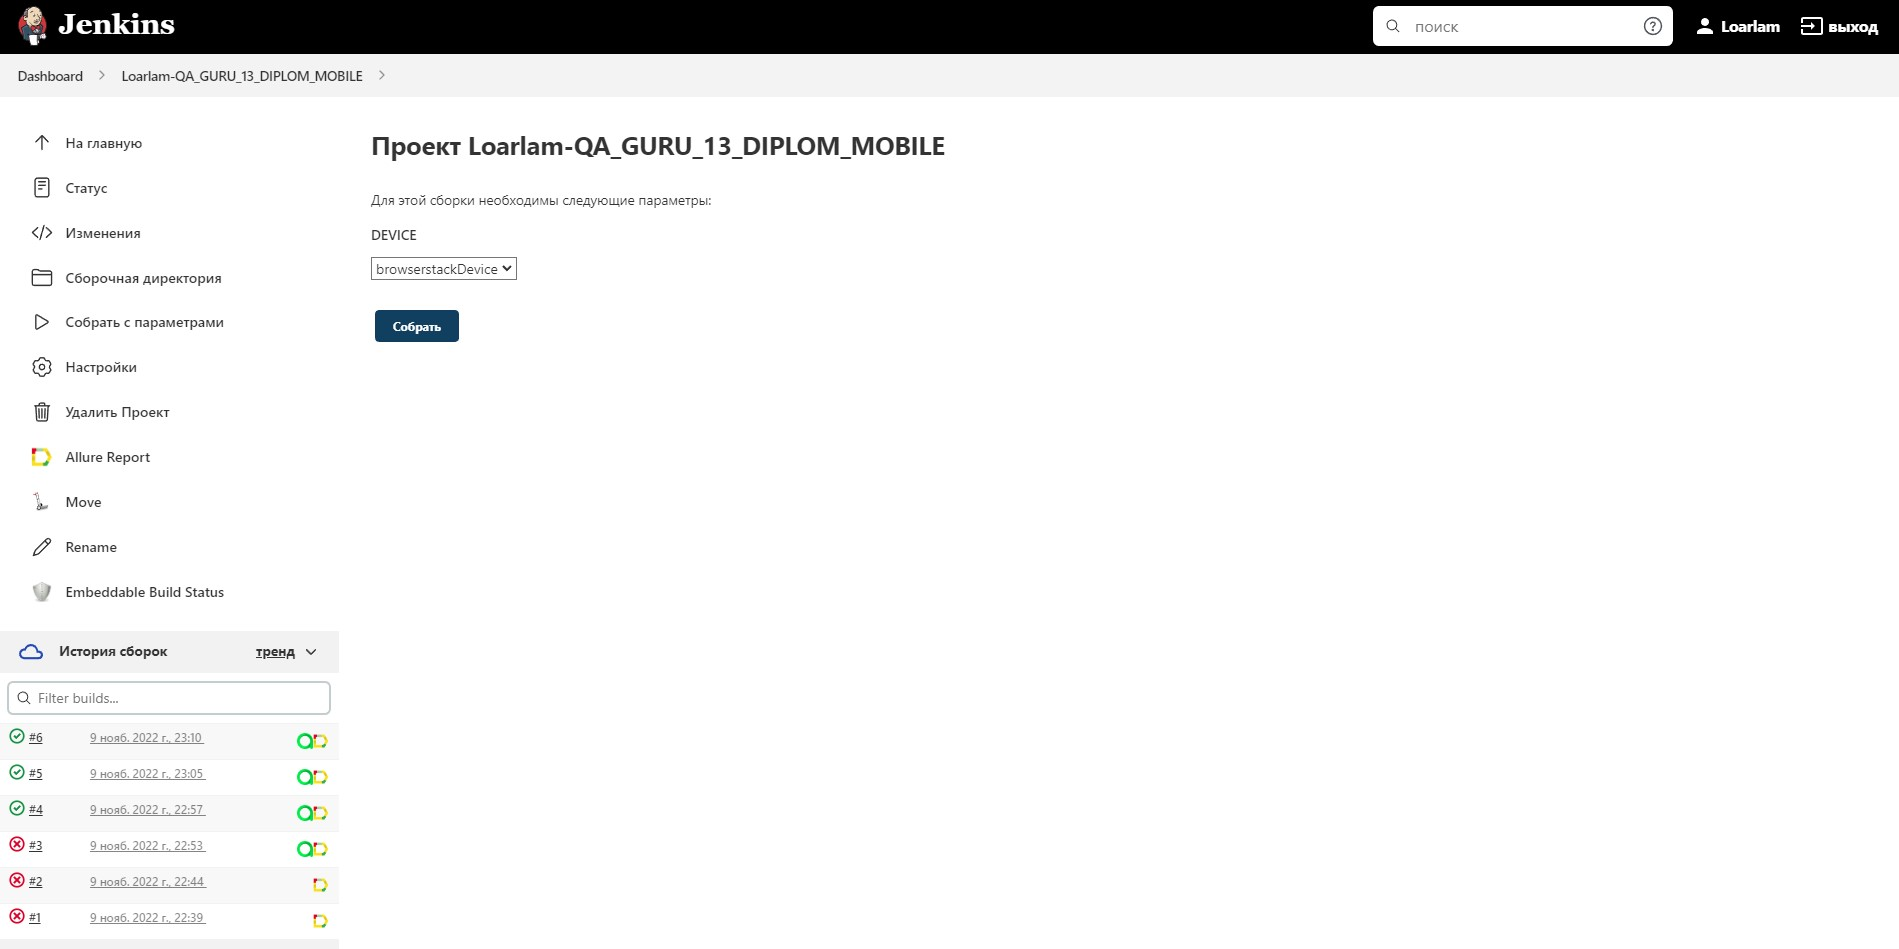
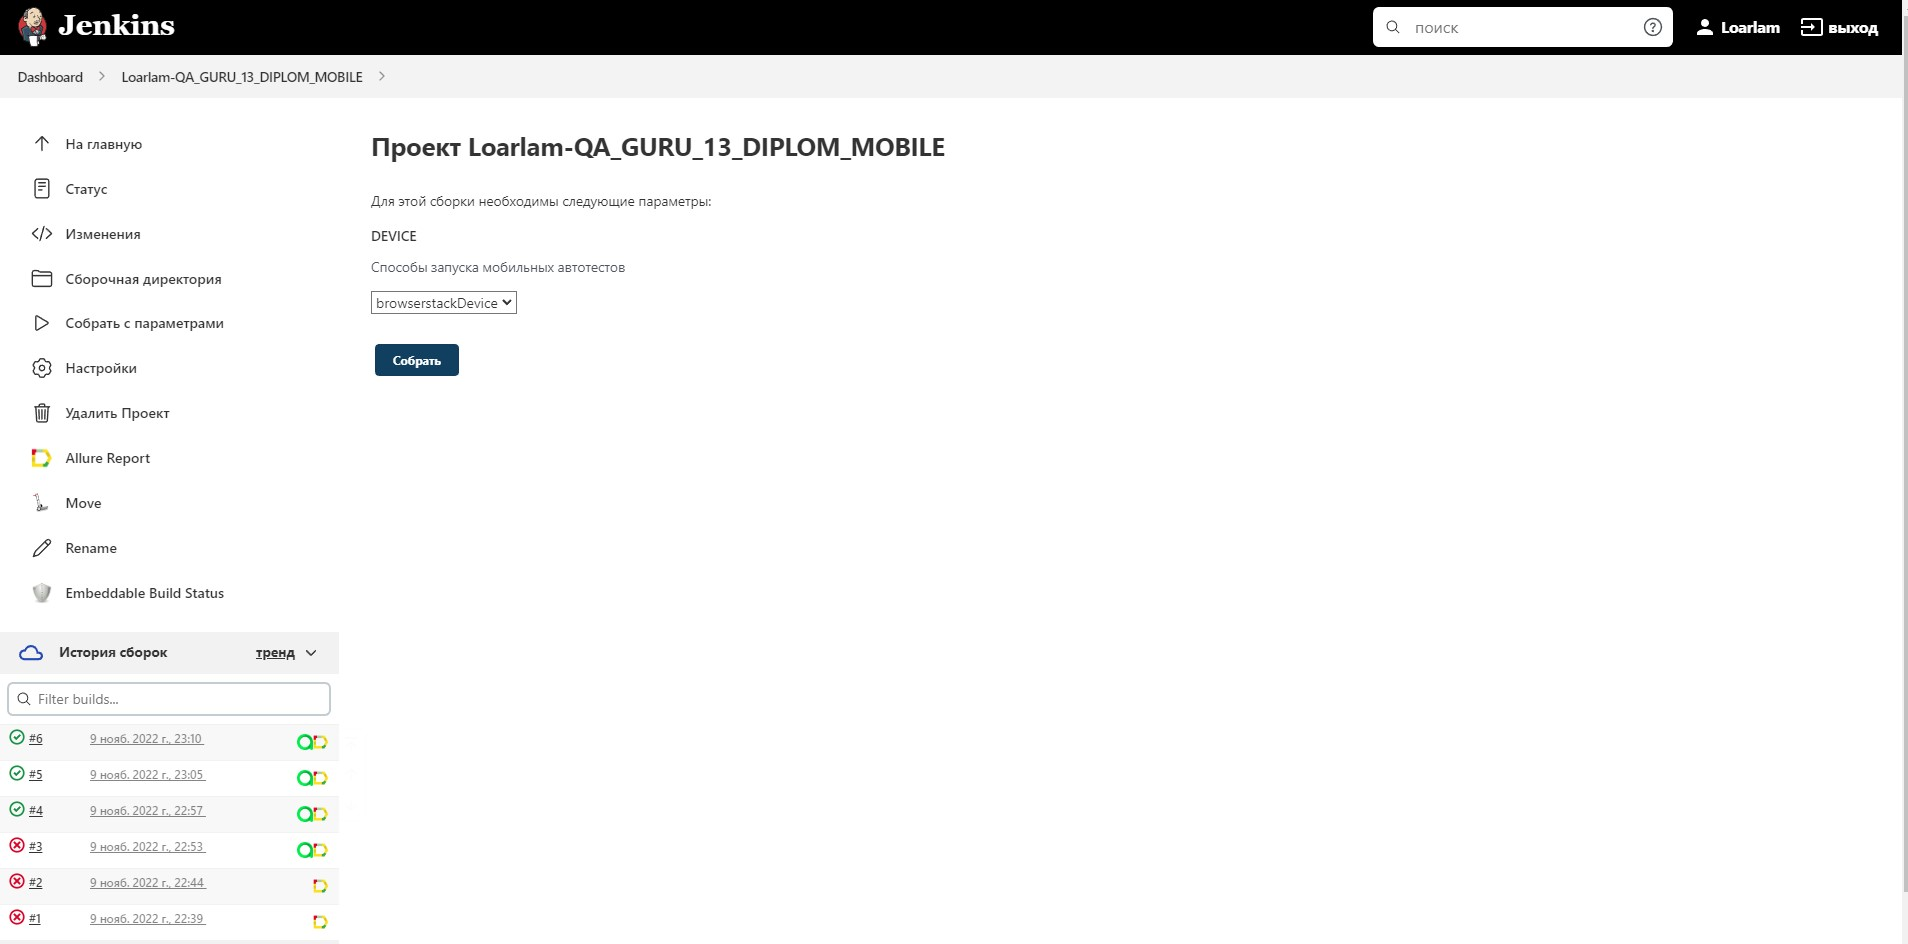
Поправил Readme

diff --git a/README.md b/README.md
@@ -42,31 +42,24 @@
 <kbd>[![](images/screenshots/JenkinsResult.jpg)](https://jenkins.autotests.cloud/job/Loarlam-QA_GURU_13_DIPLOM_MOBILE/)</kbd>
 
 #### Параметры сборки:
-| Параметры          | Значение                            |
-|:-------------------|:------------------------------------|
-| REMOTE_LINK        | Удаленный сервер для запуска тестов |
-| BROWSER            | Браузер для запуска тестов          |
-| BROWSER_VERSION    | Версия браузера                     |
-| BROWSER_RESOLUTION | Размер окна браузера                |
+| Параметры          | Значение                             |
+|:-------------------|:-------------------------------------|
+| DEVICE             | Способы запуска мобильных автотестов |
 
 <kbd>[![](images/screenshots/JenkinsStart.jpg)](https://jenkins.autotests.cloud/job/Loarlam-QA_GURU_13_DIPLOM_MOBILE/build)</kbd>
 
 ## :desktop_computer: Команды запуска тестов в терминале
 #### Команды для локального запуска:
 ```bash
-./gradlew clean taskWithTagVacancy -Dhost=localLaunch
+./gradlew clean taskWithTagWiki -Dhost=${DEVICE}
 ```
+>${DEVICE} заменяем на одно из: browserstackDevice, personalDevice, virtualDevice
 
 #### Команды для удаленного запуска:
 ```bash
-clean
-taskWithTagVacancy
--DremoteLink=${REMOTE_LINK}
--Dbrowser=${BROWSER}
--Dversion=${BROWSER_VERSION}
--Dresolution=${BROWSER_RESOLUTION}
--Dhost=remoteLaunch
+clean taskWithTagWiki -Dhost=${DEVICE}
 ```
+>${DEVICE} заменяем на одно из: browserstackDevice, personalDevice, virtualDevice
 
 ## <img width="5%" title="Allure" src="images/logo/allureReport.svg"> Интеграция с Allure report
 #### Диаграммы прохождения тестов:
